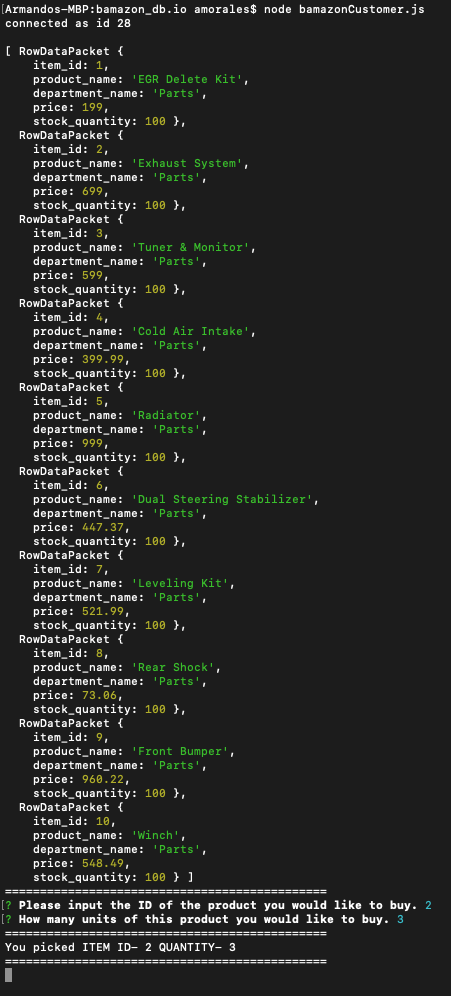
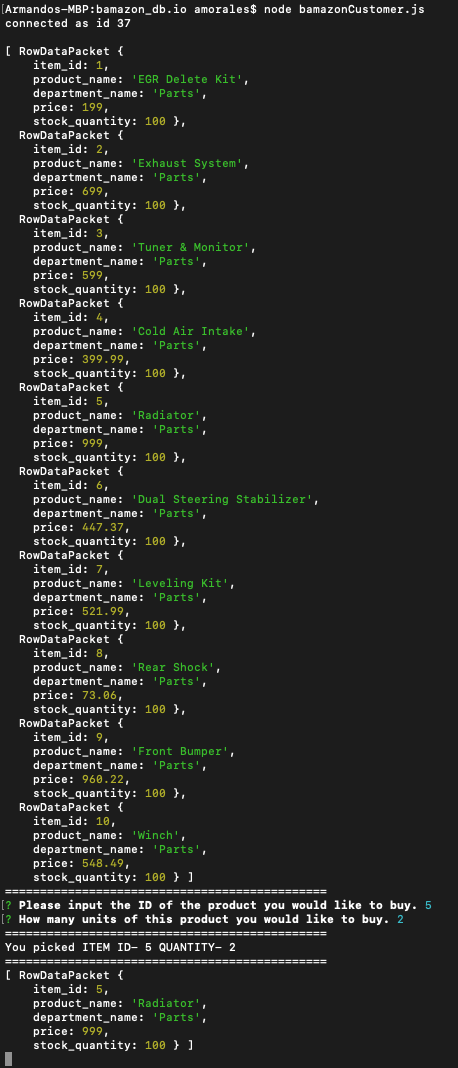
Changed cliAPP.png picture

Changed region(s): [[0.0, 0.0, 0.9313, 1.0], [0.5277, 0.498, 0.5898, 0.5291], [0.4656, 0.4669, 0.4967, 0.498]]

diff --git a/bamazonCustomer.js b/bamazonCustomer.js
@@ -19,7 +19,7 @@ function runApp(){
 connection.query("SELECT * FROM bamazon_db.products", function(err, res) {
     console.log(res);
     console.log("==============================================");
-
+    
   firstQuestion();
 });
 }
@@ -39,54 +39,146 @@ inquirer
   message: "How many units of this product you would like to buy."
 }
 
-])
-.then(function(user){
-//   switch (user.action) {
-//     case "1":
-//       console.log("==============================================");
+  ])
+    .then(function(user){
+      switch (user.item_id) {
+        case "1":
+            connection.query(`SELECT * FROM products WHERE item_id = 1`, function (err, res) {
+              if (err) throw err;
+                console.log("==============================================");
+                console.log("You picked ITEM ID- " + user.item_id + " QUANTITY- " + user.quantity)
+                console.log("==============================================");
+                console.log(res);
+              });
+          break;
 
-      console.log("==============================================");
-      console.log("You picked ITEM ID- " + user.item_id + " QUANTITY- " + user.quantity)
-      console.log("==============================================");
-    //   break;
+        case "2":
+          connection.query(`SELECT * FROM products WHERE item_id = 2`, function (err, res) {
+              if (err) throw err;
+                console.log("==============================================");
+                console.log("You picked ITEM ID- " + user.item_id + " QUANTITY- " + user.quantity)
+                console.log("==============================================");
+                console.log(res);
+              });
+          break;
 
-    // case "2":
-    //   multiSearch();
-    //   break;
+        case "3":
+          connection.query(`SELECT * FROM products WHERE item_id = 3`, function (err, res) {
+              if (err) throw err;
+                console.log("==============================================");
+                console.log("You picked ITEM ID- " + user.item_id + " QUANTITY- " + user.quantity)
+                console.log("==============================================");
+                console.log(res);
+              });
+          break;
 
-    // case "3":
-    //   rangeSearch();
-    //   break;
+        case "4":
+          connection.query(`SELECT * FROM products WHERE item_id = 4`, function (err, res) {
+              if (err) throw err;
+                console.log("==============================================");
+                console.log("You picked ITEM ID- " + user.item_id + " QUANTITY- " + user.quantity)
+                console.log("==============================================");
+                console.log(res);
+              });
+          break;
 
-    // case "4":
-    //   songSearch();
-    //   break;
+        case "5":
+          connection.query(`SELECT * FROM products WHERE item_id = 5`, function (err, res) {
+              if (err) throw err;
+                console.log("==============================================");
+                console.log("You picked ITEM ID- " + user.item_id + " QUANTITY- " + user.quantity)
+                console.log("==============================================");
+                console.log(res);
+              });
+          break;
 
-    // case "5":
-    //   songAndAlbumSearch();
-    //   break;
+        case "6":
+            connection.query(`SELECT * FROM products WHERE item_id = 6`, function (err, res) {
+              if (err) throw err;
+                console.log("==============================================");
+                console.log("You picked ITEM ID- " + user.item_id + " QUANTITY- " + user.quantity)
+                console.log("==============================================");
+                console.log(res);
+              });
+            break;
 
-    //   case "6":
-    //     artistSearch();
-    //     break;
+        case "7":
+            connection.query(`SELECT * FROM products WHERE item_id = 7`, function (err, res) {
+              if (err) throw err;
+                console.log("==============================================");
+                console.log("You picked ITEM ID- " + user.item_id + " QUANTITY- " + user.quantity)
+                console.log("==============================================");
+                console.log(res);
+              });
+            break;
 
-    //   case "7":
-    //     multiSearch();
-    //     break;
+        case "8":
+            connection.query(`SELECT * FROM products WHERE item_id = 8`, function (err, res) {
+              if (err) throw err;
+                console.log("==============================================");
+                console.log("You picked ITEM ID- " + user.item_id + " QUANTITY- " + user.quantity)
+                console.log("==============================================");
+                console.log(res);
+              });
+            break;
 
-    //   case "8":
-    //     rangeSearch();
-    //     break;
+        case "9":
+            connection.query(`SELECT * FROM products WHERE item_id = 9`, function (err, res) {
+              if (err) throw err;
+                console.log("==============================================");
+                console.log("You picked ITEM ID- " + user.item_id + " QUANTITY- " + user.quantity)
+                console.log("==============================================");
+                console.log(res);
+              });
+            break;
 
-    //   case "9":
-    //     songSearch();
-    //     break;
-
-    //   case "10":
-    //     songAndAlbumSearch();
-    //     break;
-    // }
-
-
-})
+        case "10":
+            connection.query(`SELECT * FROM products WHERE item_id = 10`, function (err, res) {
+              if (err) throw err;
+                console.log("==============================================");
+                console.log("You picked ITEM ID- " + user.item_id + " QUANTITY- " + user.quantity)
+                console.log("==============================================");
+                console.log(res);
+              });
+            break;
+      }
+    });
 }
+
+
+// function idSearch(item_id, callback) {
+//   connection.query(`SELECT * FROM products WHERE item_id = ${item_id}`, function (err, res) {
+//       if (err) throw err;
+//         console.log("==============================================");
+//         console.log("You picked ITEM ID- " + user.item_id + " QUANTITY- " + user.quantity)
+//         console.log("==============================================");
+//       callback(res[0]);
+//   });
+// }
+
+
+
+
+
+// connection.connect(function (err) {
+//   if (err) throw err;
+//   console.log("connected as id " + connection.threadId);
+//   connection.query("SELECT * FROM songs WHERE artist = 'Daft Punk'", function (err, res) {
+//       if (err) throw err;
+//       console.log(res);
+//   });
+//   connection.query("SELECT * FROM songs LIMIT 200 OFFSET 150", function (err, res) {
+//       if (err) throw err;
+//       console.log(res);
+//   });
+//   connection.query("SELECT * FROM songs WHERE song_title = 'Hound Dog'", function (err, res) {
+//       if (err) throw err;
+//       console.log(res);
+//   });
+//   connection.query('SELECT artist, COUNT(*) FROM songs GROUP BY artist HAVING COUNT(*) >1'
+//       , function (err, res) {
+//           if (err) throw err;
+//           console.log(res);
+//       });
+//   connection.end();
+// });
